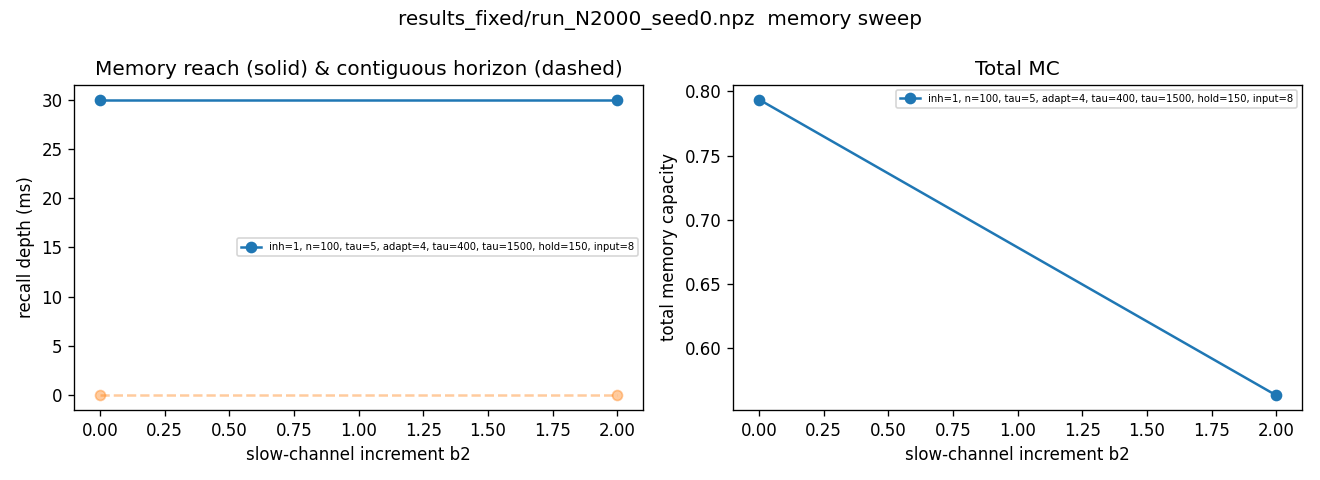
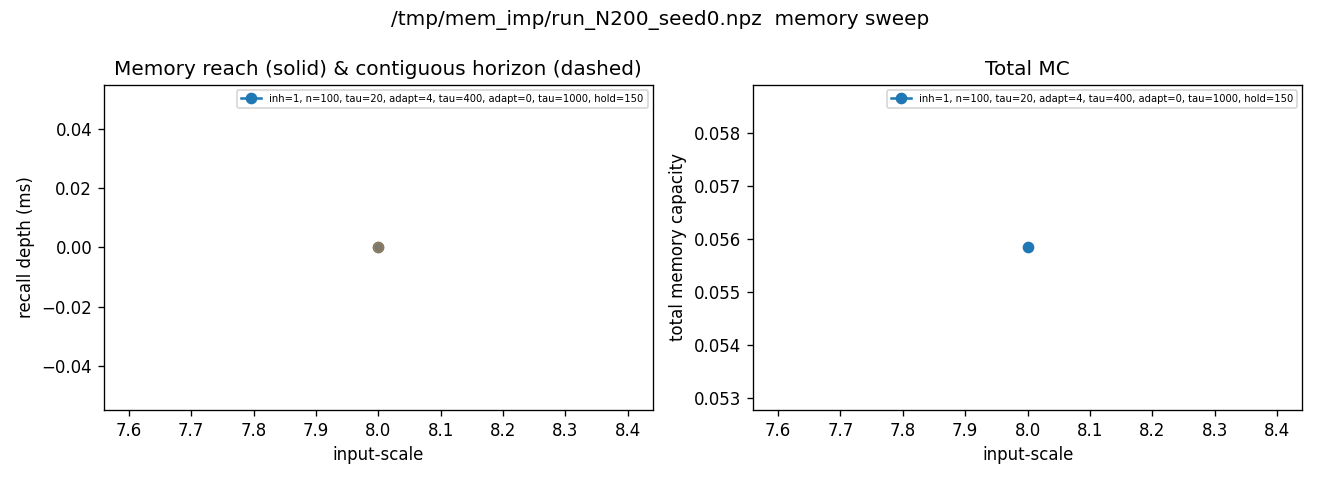
fixed code, hopefully

diff --git a/train_memory_rstdp.py b/train_memory_rstdp.py
@@ -112,17 +112,21 @@ def regime_metrics(spikes, N, steps, dt, bin_ms=5.0):
 # ---------------------------------------------------------------------------
 
 def calibrate_drive(N, n_exc, W, tau_m, tau_syn, V_th, I_base_template,
-                    sigma, R, dt, target_rate_hz=(5.0, 25.0),
+                    sigma, R, dt, adapt_b=0.0, tau_w=400.0,
+                    target_rate_hz=(5.0, 25.0),
                     calib_steps=3000, seed=1):
     '''Binary-search I_mean so the population fires in target_rate_hz range.
 
     Returns a calibrated I_base array (per-neuron, same shape as I_base_template).
-    Operates on a copy of the network state; does not mutate W.
+    Operates on a copy of the network state; does not mutate W. Adaptation
+    (adapt_b/tau_w) is included so the calibrated rate matches the training run.
     '''
     rng = np.random.default_rng(seed)
     inv_sqrt_dt = 1.0 / np.sqrt(dt)
     E_exc, E_inh = 0.0, -80.0
     V_rest, V_reset = -70.0, -80.0
+    adapt_on    = adapt_b > 0.0
+    adapt_decay = np.exp(-dt / tau_w)
 
     lo, hi = 0.5, 8.0   # search range for I_mean
     for _ in range(12):  # 12 bisection iterations -> resolution < 0.01
@@ -132,14 +136,17 @@ def calibrate_drive(N, n_exc, W, tau_m, tau_syn, V_th, I_base_template,
         V = np.full(N, V_rest)
         g_exc_c = np.zeros(N); g_inh_c = np.zeros(N)
         refractory = np.zeros(N)
+        w_adapt = np.zeros(N)
         n_spikes = 0
 
         for step in range(calib_steps):
             I_ext = I_base + (sigma * rng.standard_normal(N) * inv_sqrt_dt
                               if sigma > 0 else 0.0)
             I_syn = -g_exc_c * (V - E_exc) - g_inh_c * (V - E_inh)
-            dV    = (1.0 / tau_m) * (-(V - V_rest) + R * (I_ext + I_syn))
+            dV    = (1.0 / tau_m) * (-(V - V_rest) + R * (I_ext + I_syn) - w_adapt)
             V    += dV * dt
+            if adapt_on:
+                np.clip(V, E_inh - 10.0, E_exc + 10.0, out=V)
             refractory -= dt
             fired = (V >= V_th) & (refractory <= 0)
             V[fired] = V_reset; refractory[fired] = 2.0
@@ -149,6 +156,9 @@ def calibrate_drive(N, n_exc, W, tau_m, tau_syn, V_th, I_base_template,
             if inh_f.any(): g_inh_c += W[inh_f].sum(axis=0)
             g_exc_c -= (g_exc_c / tau_syn) * dt
             g_inh_c -= (g_inh_c / tau_syn) * dt
+            if adapt_on:
+                w_adapt *= adapt_decay
+                w_adapt[fired] += adapt_b
             n_spikes += fired.sum()
 
         sim_s    = calib_steps * dt / 1000.0
@@ -178,8 +188,10 @@ def run(N=500, warmup_steps=5000, n_rsteps=2000, dt=0.1, seed=0,
         tau_syn=20.0,
         tau_stdp=20.0,
         tau_elig=500.0,
+        adapt_b=4.0,
+        tau_w=400.0,
         eta_rstdp=5e-5,
-        eta_readout=1e-3,
+        rls_alpha=1.0,
         target_delay=33,
         hold=150,
         n_input=100,
@@ -229,14 +241,18 @@ def run(N=500, warmup_steps=5000, n_rsteps=2000, dt=0.1, seed=0,
     # silent at 20ms. Run a quick binary search to find I_mean that gives
     # 5-25 Hz mean population rate, then use it for the full run.
     I_base = calibrate_drive(N, n_exc, W, tau_m, tau_syn, V_th, I_base,
-                             sigma, R, dt, target_rate_hz=(5.0, 25.0),
+                             sigma, R, dt, adapt_b=adapt_b, tau_w=tau_w,
+                             target_rate_hz=(5.0, 25.0),
                              calib_steps=3000, seed=seed + 99)
 
-    # --- readout layer ---
+    # --- readout layer (RLS / FORCE, with bias unit) ---
     pool        = np.arange(n_input, N)
     n_ro        = min(n_readout, len(pool))
     readout_idx = np.sort(rng.choice(pool, size=n_ro, replace=False))
-    W_out       = np.zeros(n_ro)
+    ro_dim      = n_ro + 1                       # +1 for bias feature
+    W_out       = np.zeros(ro_dim)
+    P_rls       = np.eye(ro_dim) / rls_alpha     # inverse-correlation estimate
+    r_vec       = np.ones(ro_dim)                # reused feature vector (last = bias)
 
     # --- circular buffer for delayed input ---
     # Buffer length must be at least target_delay + 1 reservoir-steps.
@@ -253,6 +269,11 @@ def run(N=500, warmup_steps=5000, n_rsteps=2000, dt=0.1, seed=0,
     tau_state   = 20.0
     trace_decay = np.exp(-dt / tau_state)
     spike_trace = np.zeros(N)
+
+    # --- spike-frequency adaptation (gives the reservoir baseline memory) ---
+    adapt_on    = adapt_b > 0.0
+    adapt_decay = np.exp(-dt / tau_w)
+    w_adapt     = np.zeros(N)
 
     # --- STDP traces and eligibility ---
     stdp_decay  = np.exp(-dt / tau_stdp)
@@ -280,8 +301,9 @@ def run(N=500, warmup_steps=5000, n_rsteps=2000, dt=0.1, seed=0,
     print(f'[train] {n_rsteps} reservoir-steps ({total_sim_steps} sim steps)  '
           f'target_delay={target_delay} ({target_delay * hold * dt:.0f}ms)  '
           f'hold={hold}  n_ro={n_ro}', flush=True)
-    print(f'[train] eta_rstdp={eta_rstdp}  eta_readout={eta_readout}  '
-          f'tau_elig={tau_elig}ms  tau_stdp={tau_stdp}ms', flush=True)
+    print(f'[train] eta_rstdp={eta_rstdp}  rls_alpha={rls_alpha}  '
+          f'tau_elig={tau_elig}ms  tau_stdp={tau_stdp}ms  '
+          f'adapt_b={adapt_b} tau_w={tau_w}ms', flush=True)
 
     # -----------------------------------------------------------------------
     # Warmup: settle network, no plasticity
@@ -291,8 +313,10 @@ def run(N=500, warmup_steps=5000, n_rsteps=2000, dt=0.1, seed=0,
         I_ext = I_base + (sigma * rng.standard_normal(N) * inv_sqrt_dt
                           if sigma > 0 else 0.0)
         I_syn = -g_exc * (V - E_exc) - g_inh_v * (V - E_inh)
-        dV    = (1.0 / tau_m) * (-(V - V_rest) + R * (I_ext + I_syn))
+        dV    = (1.0 / tau_m) * (-(V - V_rest) + R * (I_ext + I_syn) - w_adapt)
         V    += dV * dt
+        if adapt_on:
+            np.clip(V, E_inh - 10.0, E_exc + 10.0, out=V)
         refractory -= dt
         fired = (V >= V_th) & (refractory <= 0)
         V[fired] = V_reset; refractory[fired] = 2.0
@@ -302,6 +326,9 @@ def run(N=500, warmup_steps=5000, n_rsteps=2000, dt=0.1, seed=0,
         if inh_f.any(): g_inh_v += W[inh_f].sum(axis=0)
         g_exc   -= (g_exc   / tau_syn) * dt
         g_inh_v -= (g_inh_v / tau_syn) * dt
+        if adapt_on:
+            w_adapt *= adapt_decay
+            w_adapt[fired] += adapt_b
         spike_trace = spike_trace * trace_decay + fired.astype(float)
 
     W_initial = W.copy()   # snapshot after warmup settling, before plasticity
@@ -323,8 +350,10 @@ def run(N=500, warmup_steps=5000, n_rsteps=2000, dt=0.1, seed=0,
             I_ext[:n_input] += input_scale * current_u
 
             I_syn = -g_exc * (V - E_exc) - g_inh_v * (V - E_inh)
-            dV    = (1.0 / tau_m) * (-(V - V_rest) + R * (I_ext + I_syn))
+            dV    = (1.0 / tau_m) * (-(V - V_rest) + R * (I_ext + I_syn) - w_adapt)
             V    += dV * dt
+            if adapt_on:
+                np.clip(V, E_inh - 10.0, E_exc + 10.0, out=V)
             refractory -= dt
             fired = (V >= V_th) & (refractory <= 0)
             V[fired] = V_reset; refractory[fired] = 2.0
@@ -335,6 +364,9 @@ def run(N=500, warmup_steps=5000, n_rsteps=2000, dt=0.1, seed=0,
             if inh_f.any(): g_inh_v += W[inh_f].sum(axis=0)
             g_exc   -= (g_exc   / tau_syn) * dt
             g_inh_v -= (g_inh_v / tau_syn) * dt
+            if adapt_on:
+                w_adapt *= adapt_decay
+                w_adapt[fired] += adapt_b
 
             spike_trace = spike_trace * trace_decay + fired.astype(float)
 
@@ -367,17 +399,22 @@ def run(N=500, warmup_steps=5000, n_rsteps=2000, dt=0.1, seed=0,
             target_ptr = (buf_ptr - target_delay - 1) % buf_len
             u_target   = u_buf[target_ptr]
 
-            ro_state   = spike_trace[readout_idx]
-            prediction = float(W_out @ ro_state)
-            error      = u_target - prediction
-            d_signal   = error
+            r_vec[:n_ro] = spike_trace[readout_idx]   # last entry stays 1.0 (bias)
+            prediction   = float(W_out @ r_vec)
+            error        = u_target - prediction
+            d_signal     = error
 
             errors.append(abs(error))
 
-            # delta rule: readout
-            W_out += eta_readout * error * ro_state
+            # RLS / FORCE readout update (recursive least squares).
+            # Far stronger conditioning than plain LMS, so d_signal is a
+            # meaningful teaching signal almost immediately.
+            Pr   = P_rls @ r_vec
+            gain = Pr / (1.0 + float(r_vec @ Pr))
+            W_out += error * gain
+            P_rls -= np.outer(gain, Pr)
 
-            # R-STDP: recurrent weights
+            # R-STDP: recurrent weights, gated by the readout error d_signal
             dW = eta_rstdp * e_elig * d_signal * mask_f
             W += dW
 
@@ -438,8 +475,16 @@ def main():
     p.add_argument('--tau-elig', type=float, default=500.0,
                    help='eligibility trace time constant (ms). Must be >= '
                         'target_delay * hold * dt = target memory horizon.')
+    p.add_argument('--adapt-b', type=float, default=4.0,
+                   help='spike-frequency adaptation strength. Gives the reservoir '
+                        'baseline memory for R-STDP to shape. 0 disables it.')
+    p.add_argument('--tau-w', type=float, default=400.0,
+                   help='adaptation time constant (ms). 400 was the proven '
+                        'memory sweet spot in reservoir_capacity.py.')
     p.add_argument('--eta-rstdp', type=float, default=5e-5)
-    p.add_argument('--eta-readout', type=float, default=1e-3)
+    p.add_argument('--rls-alpha', type=float, default=1.0,
+                   help='RLS readout regulariser (P0 = I/alpha). Smaller = faster '
+                        'but noisier adaptation of the readout/teaching signal.')
     p.add_argument('--target-delay', type=int, default=33,
                    help='delay in reservoir-steps. 33 x 150 x 0.1ms = 495ms. '
                         'Use --target-delay 5 for local sanity checks.')
@@ -462,7 +507,7 @@ def main():
           f'{args.steps} reservoir-steps ({sim_steps} sim steps)  '
           f'target_delay={args.target_delay} ({args.target_delay*args.hold*args.dt:.0f}ms)  '
           f'tau_syn={args.tau_syn}ms tau_m=[{args.tau_m_min},{args.tau_m_max}]ms  '
-          f'eta_rstdp={args.eta_rstdp} eta_readout={args.eta_readout}', flush=True)
+          f'eta_rstdp={args.eta_rstdp} adapt_b={args.adapt_b} tau_w={args.tau_w}', flush=True)
 
     W_initial, W_final, spikes, errors, W_out, readout_idx = run(
         N=args.N, warmup_steps=args.warmup, n_rsteps=args.steps,
@@ -473,7 +518,8 @@ def main():
         g_inh=args.g_inh, w_max_mult=args.w_max_mult,
         tau_m_min=args.tau_m_min, tau_m_max=args.tau_m_max, tau_syn=args.tau_syn,
         tau_stdp=args.tau_stdp, tau_elig=args.tau_elig,
-        eta_rstdp=args.eta_rstdp, eta_readout=args.eta_readout,
+        adapt_b=args.adapt_b, tau_w=args.tau_w,
+        eta_rstdp=args.eta_rstdp, rls_alpha=args.rls_alpha,
         target_delay=args.target_delay, hold=args.hold,
         n_input=args.n_input, input_scale=args.input_scale,
         n_readout=args.n_readout,